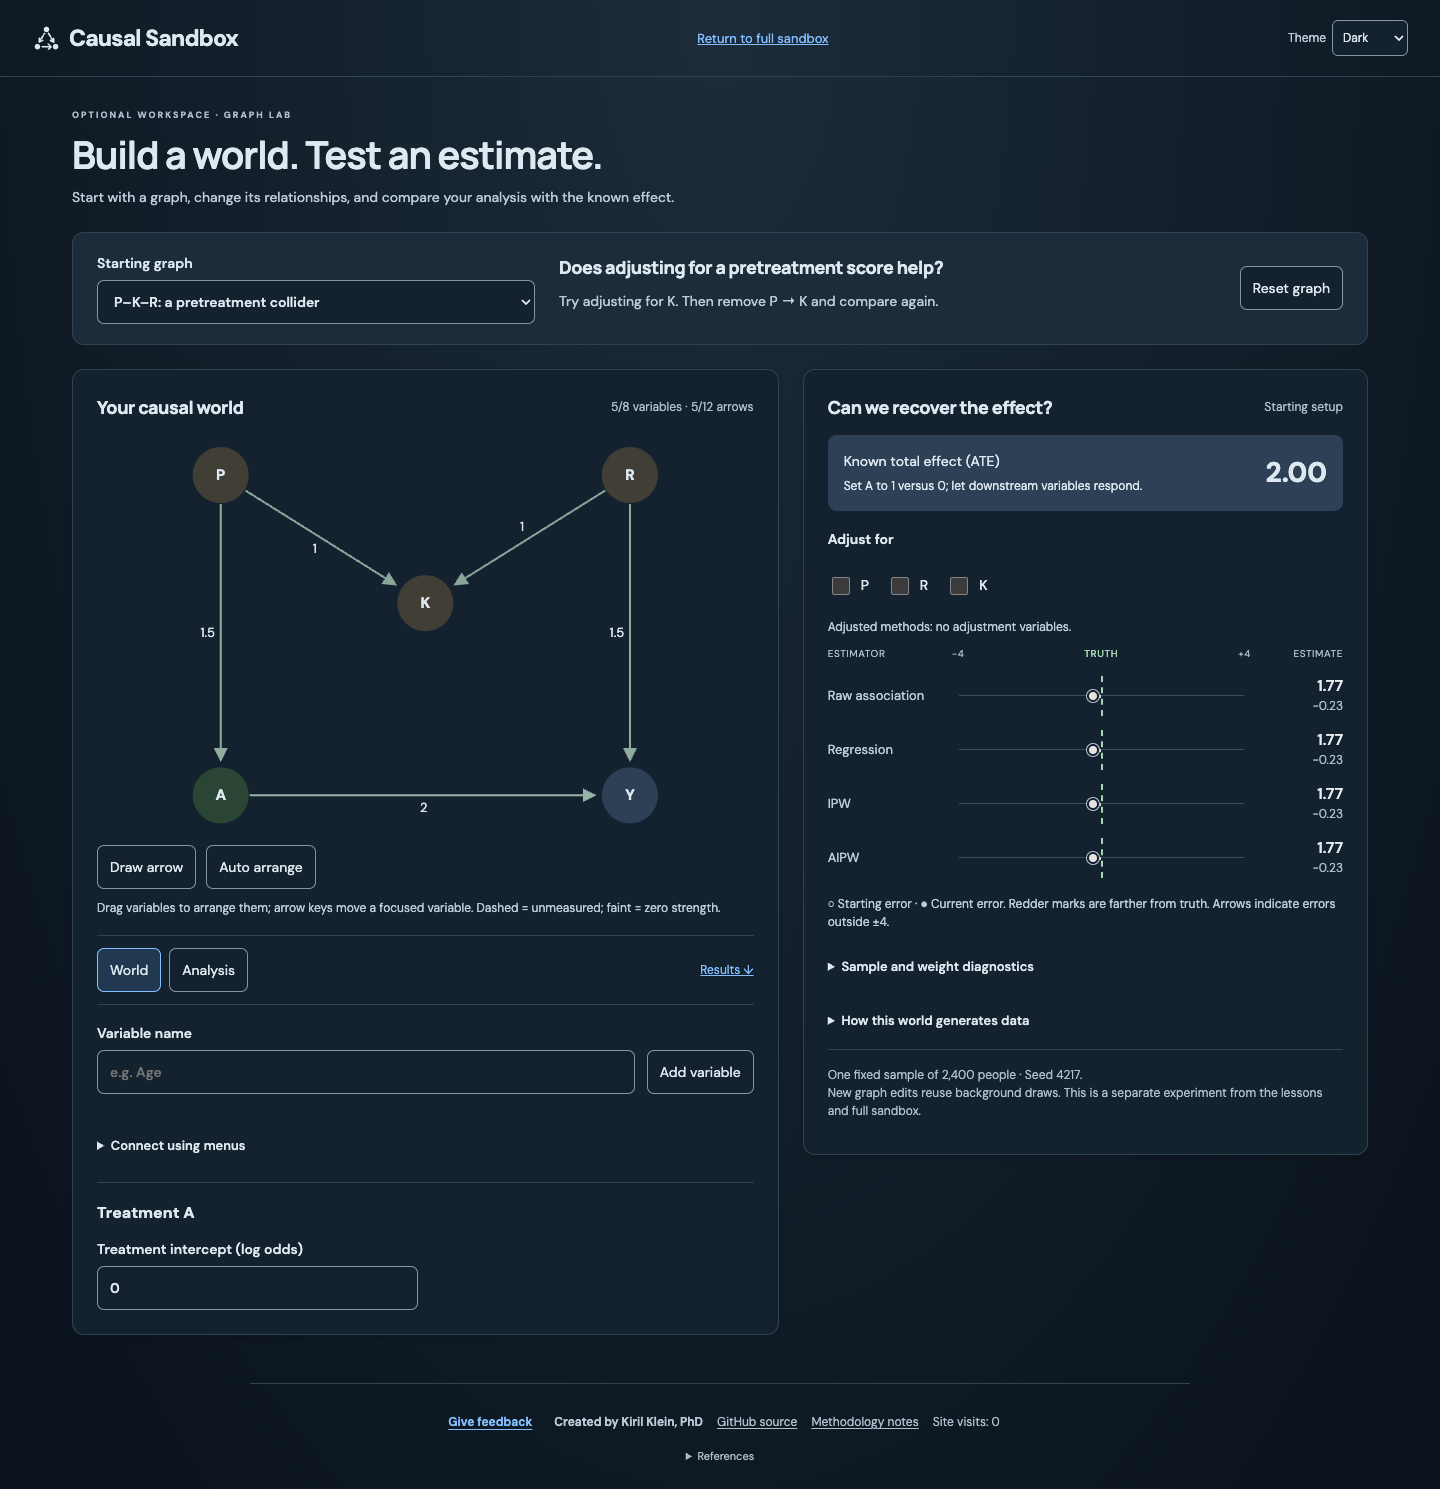
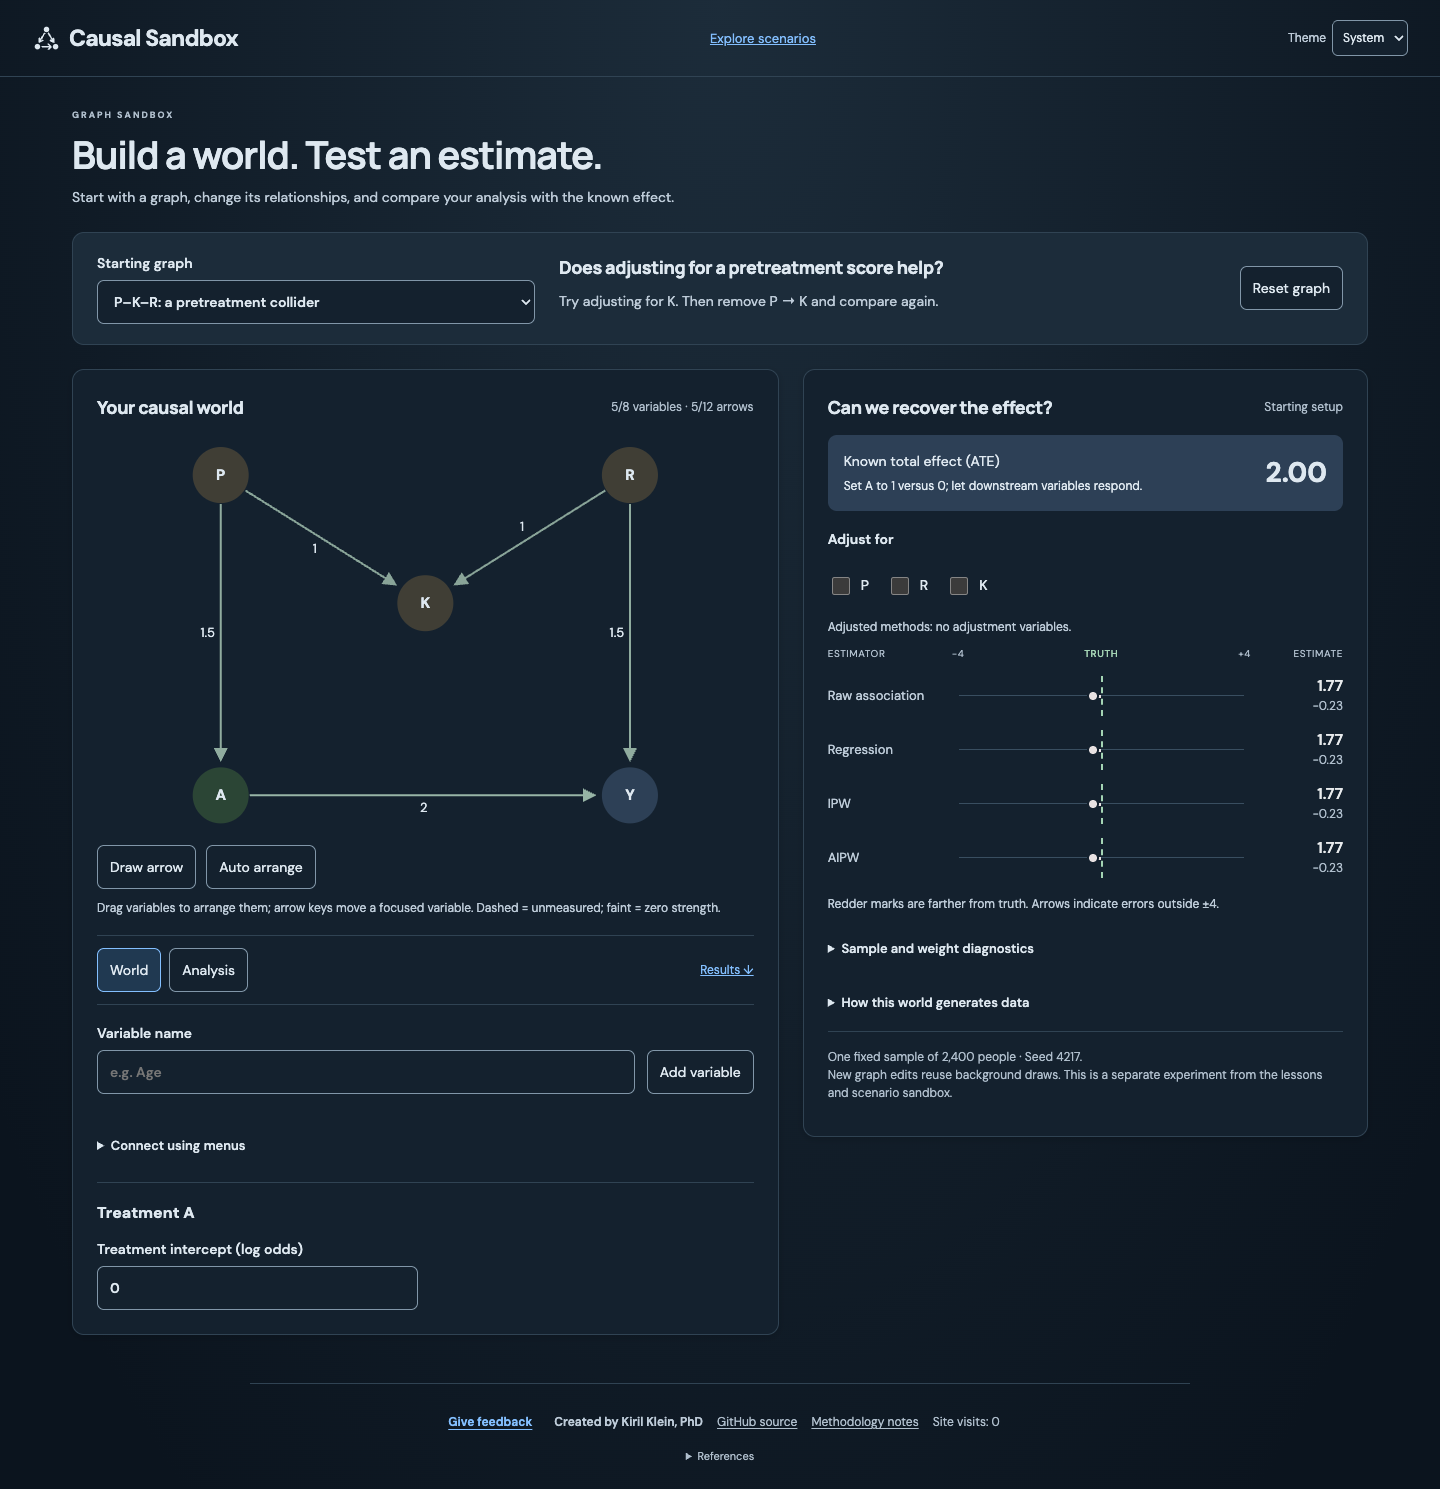
Align remaining sandbox references and screenshots

Changed region(s): [[0.5625, 0.587, 0.9062, 0.7723], [0.5, 0.0, 0.5625, 0.0309]]

diff --git a/src/glossary.js b/src/glossary.js
@@ -100,7 +100,7 @@ export const glossary = {
     detail: [
       "A path is a sequence of connected arrows. A backdoor path enters treatment through an incoming arrow and can create confounding; an appropriate pre-treatment adjustment set blocks such paths without opening new ones. The diagram records causal assumptions and cannot be established from associations alone.",
     ],
-    related: { label: "Open the full causal diagram", href: "?sandbox" },
+    related: { label: "Explore scenarios", href: "?sandbox" },
   },
   timing: {
     title: "Temporal ordering",

diff --git a/src/lesson-simulation.js b/src/lesson-simulation.js
@@ -1,7 +1,7 @@
 import { makeNoise, estimate } from "./simulation.js";
 
 // Numeric lesson IDs are stable identities, not display positions (see lessons.js).
-// Complete lesson state; no advanced sandbox setting is shared with this world.
+// Complete lesson state; no scenario sandbox setting is shared with this world.
 export function lessonBaseline(level) {
   if (level === 11)
     return {

diff --git a/docs/education.md b/docs/education.md
@@ -67,7 +67,7 @@ Optional detail covers exchangeability, positivity, consistency, and interferenc
 without treating all assumptions as inevitably violated or empirically testable.
 It has no simulation,
 estimates, or restart button. Back returns to overlap; the forward link opens the
-existing advanced sandbox through `?sandbox` as level 13.
+existing scenario sandbox through `?sandbox` as level 13.
 
 An optional [clipping chapter](clipping-experiment.md) follows Poor overlap at
 `?lesson=clipping`. Compare estimates before and after probability clipping while
@@ -290,7 +290,7 @@ the learner simplifies either model and then both, with a short explanation of
 the current combination beside the estimates. There is no clickthrough sequence.
 Model changes never change the world or sample. Restarts restore both flexible
 models and the initial sample.
-The advanced sandbox retains its separate two-covariate interaction features.
+The scenario sandbox retains its separate two-covariate interaction features.
 
 Tests use 40 independent seeds (100–139), n=2400, for each world and each model
 combination. Mean bias with a correct relevant model is below 0.06 in absolute
